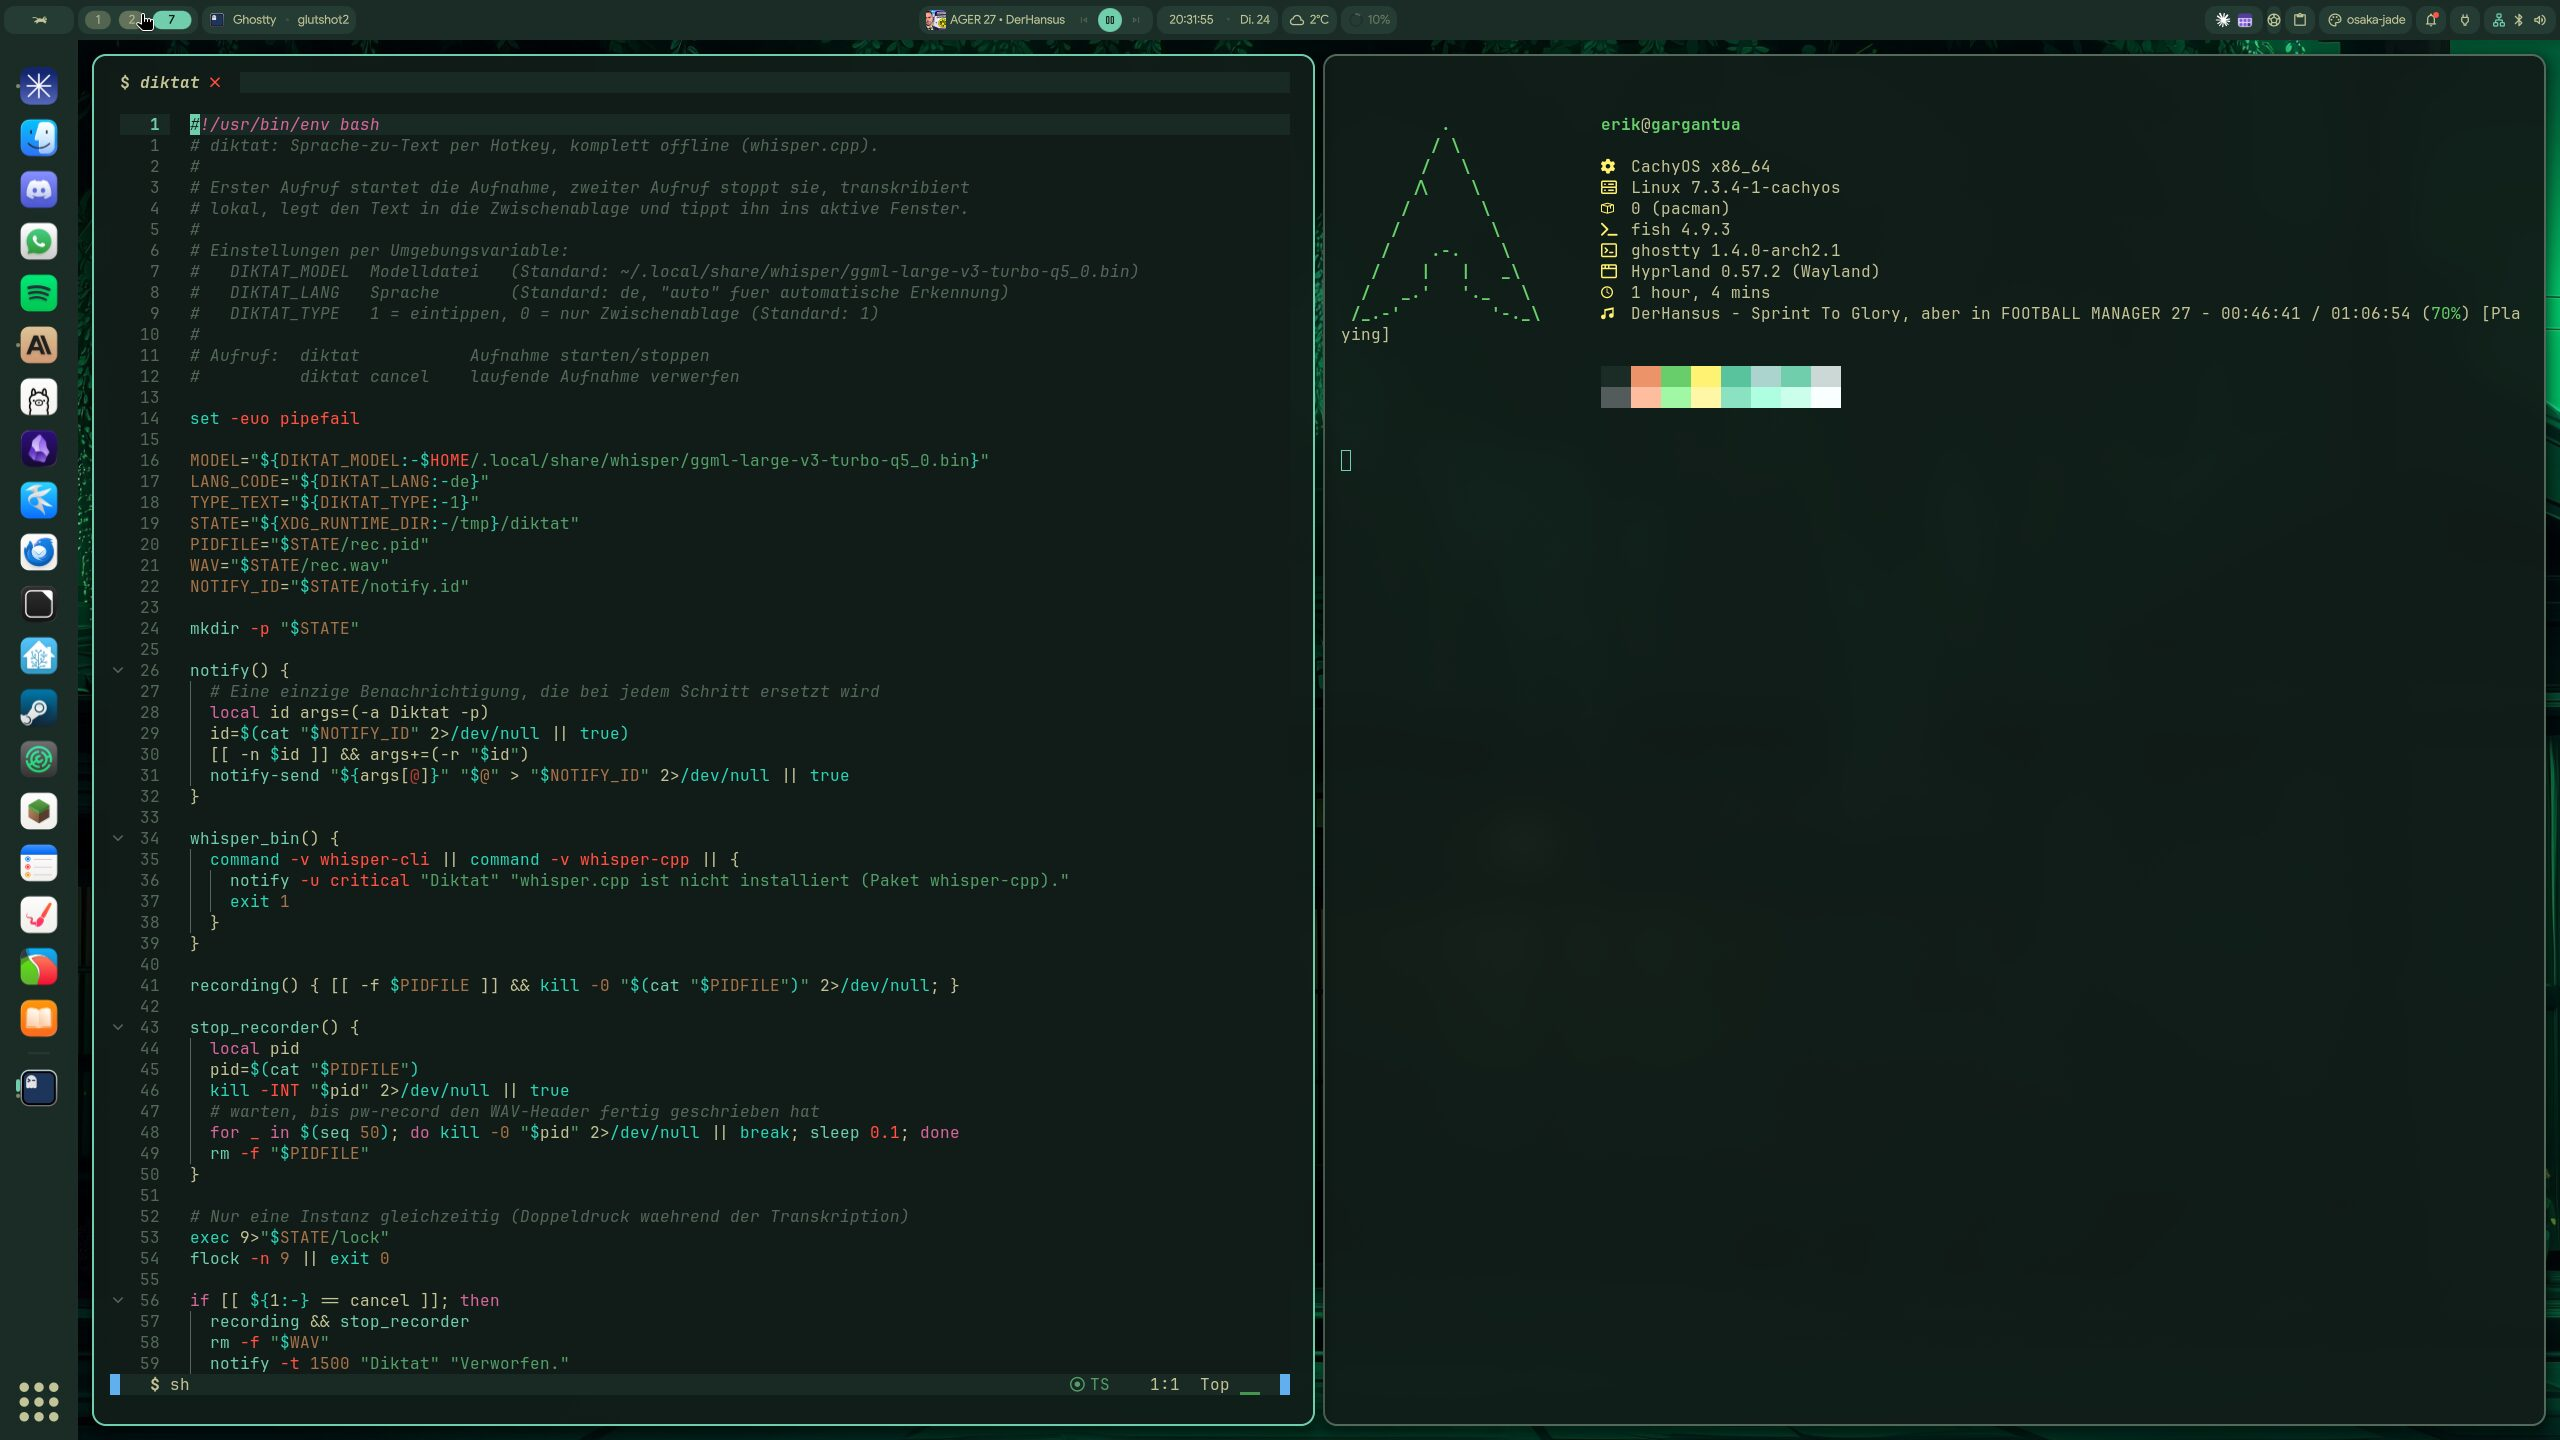
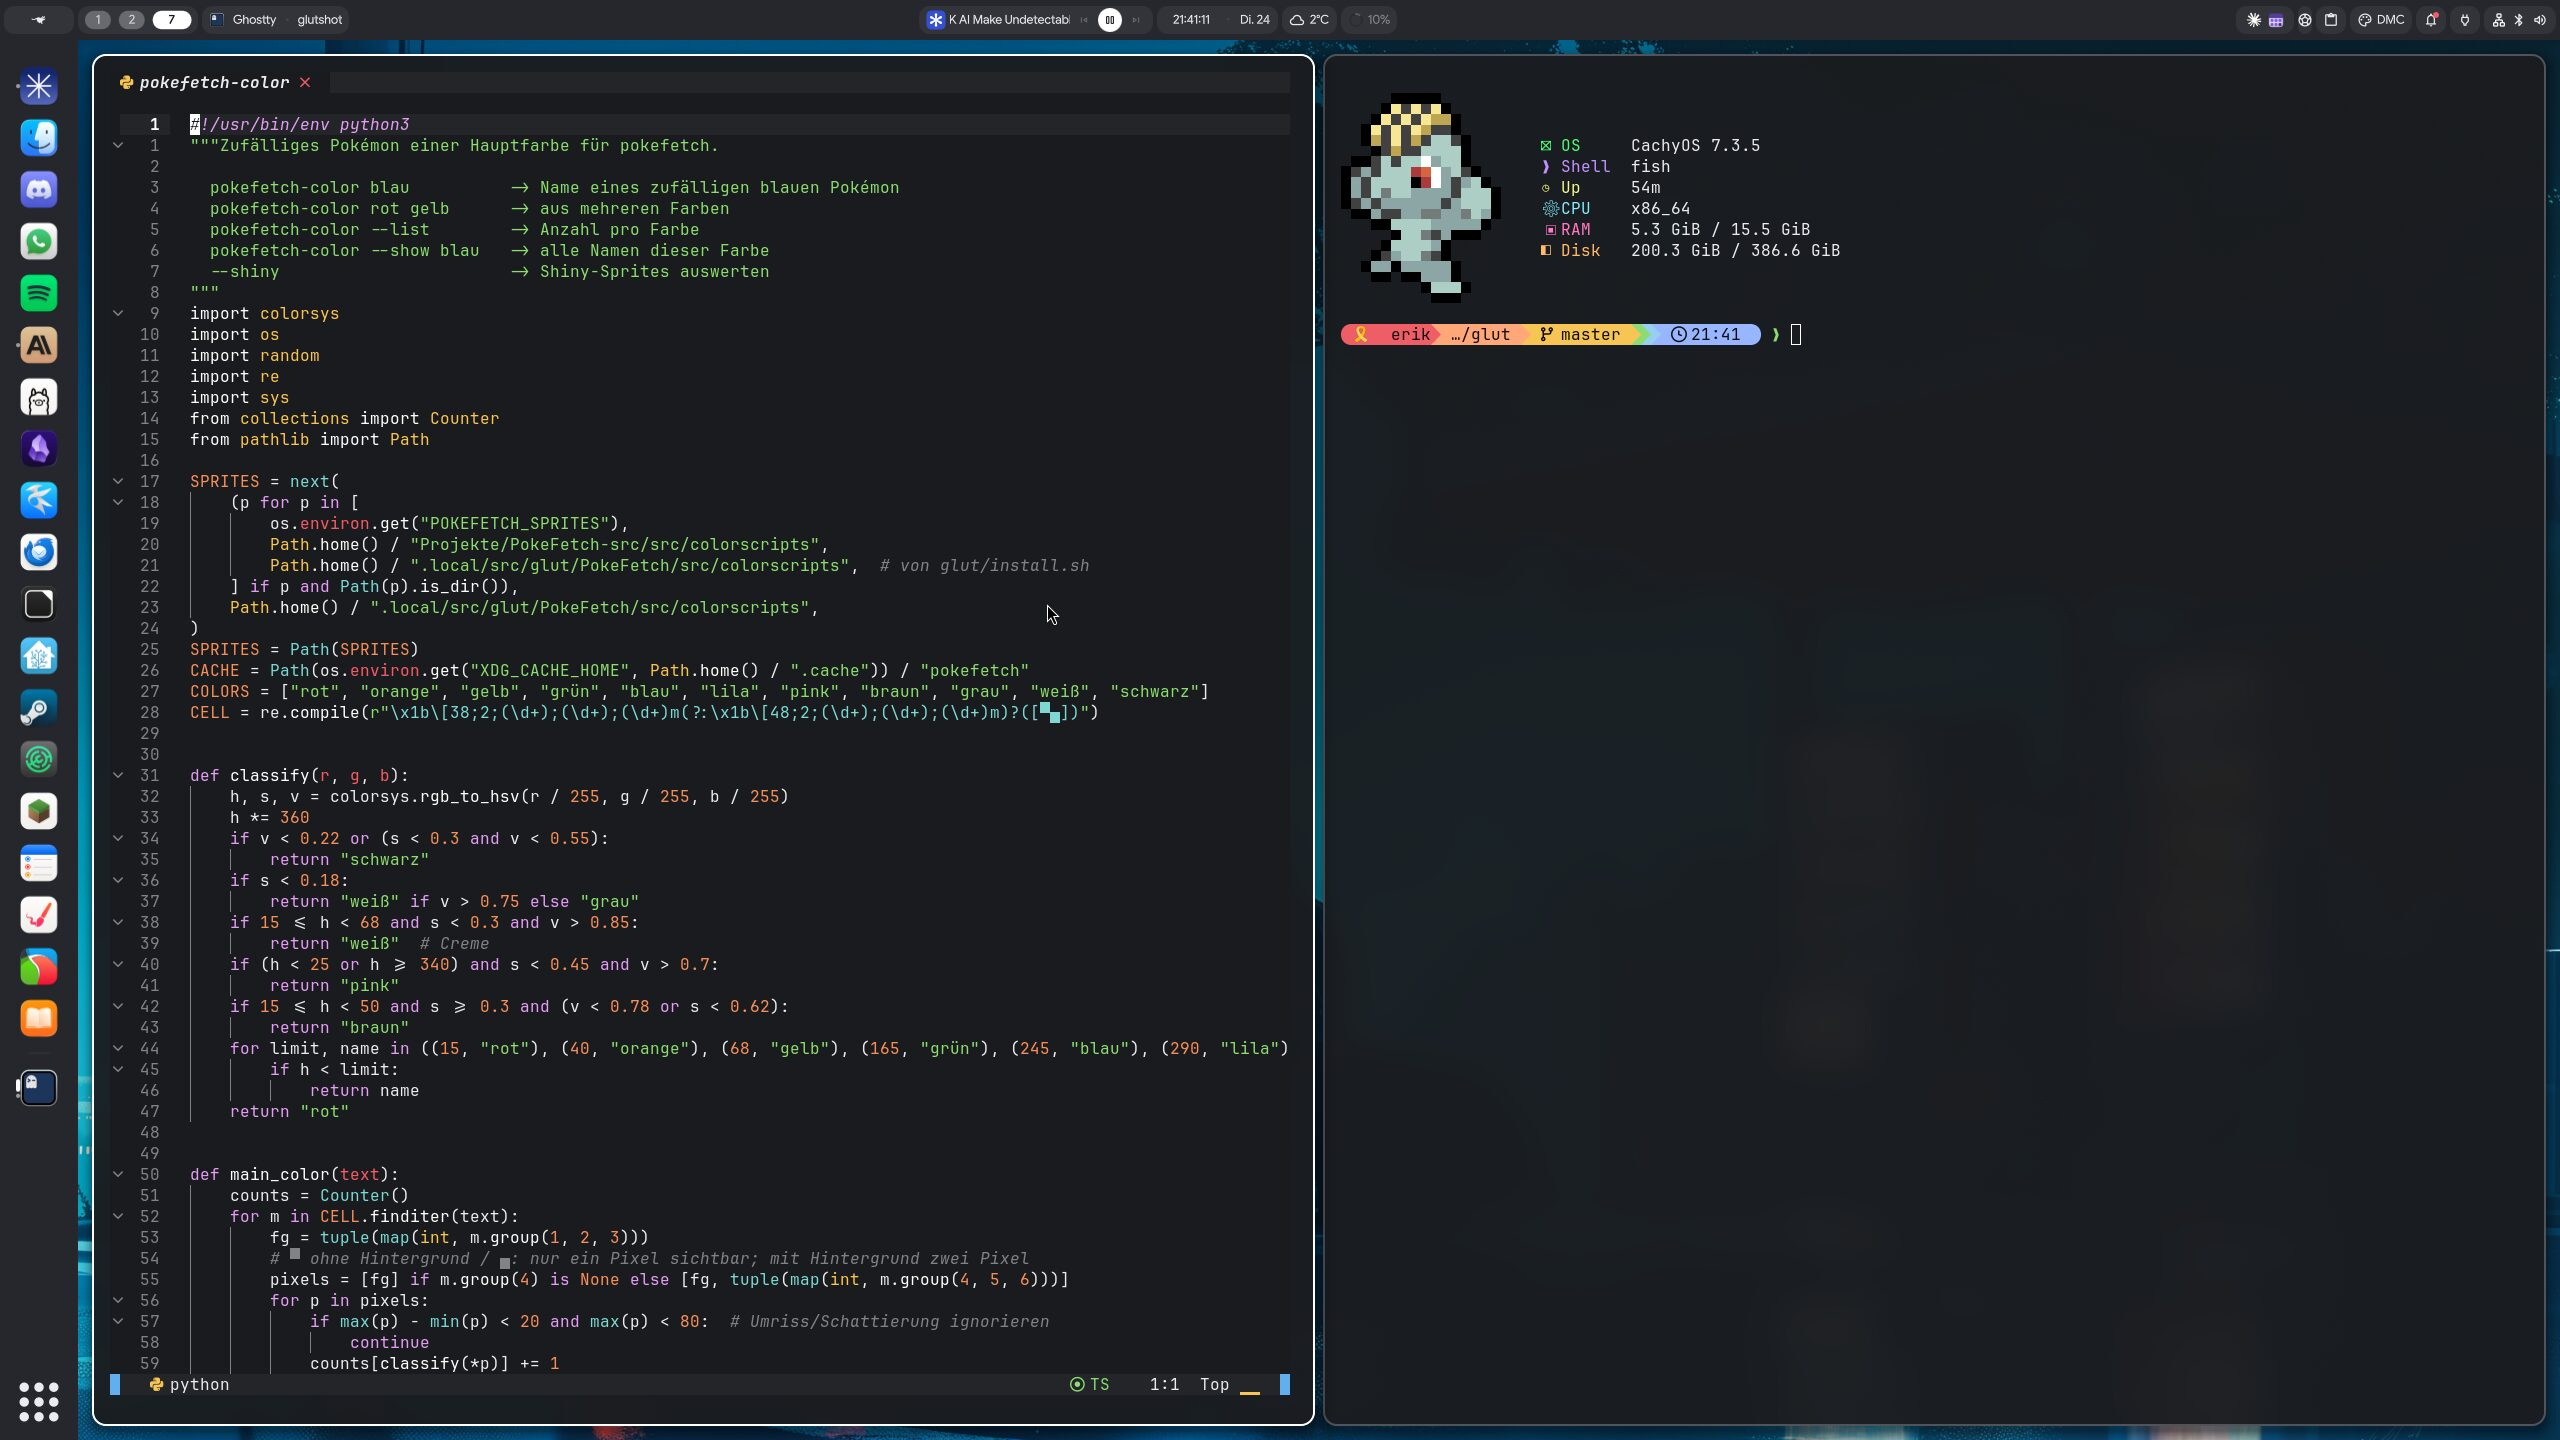
README: Feature-Galerie mit beschrifteten Screenshots
Theme-Galerie, Themes im Launcher, Wallpaper-Karussell, pokefetch,
Diktat, Dashboard, Kontrollzentrum (Profilbild ersetzt), Tastenkuerzel-
Uebersicht und Login-Screen. Terminal-Bild zeigt jetzt pokefetch.

diff --git a/README.md b/README.md
@@ -17,7 +17,7 @@
 <table>
   <tr>
     <td><img width="100%" alt="glut: feuerhirsch theme" src=".github/assets/feuerhirsch.jpg" /></td>
-    <td><img width="100%" alt="glut: terminal with neovim and fastfetch" src=".github/assets/terminal.jpg" /></td>
+    <td><img width="100%" alt="glut: terminal with neovim and a theme-matched pokefetch" src=".github/assets/terminal.jpg" /></td>
   </tr>
   <tr>
     <td><img width="100%" alt="glut: dmc theme" src=".github/assets/dmc.jpg" /></td>
@@ -38,6 +38,49 @@
 - **Hardware-agnostic.** GPU drivers and microcode are not copied from my machine. CachyOS' `chwd` picks the right ones for yours.
 - **Wallpaper is the theme.** Pick a wallpaper and the whole desktop follows it: shell, window borders, terminal, prompt, editor, even the Pokémon that greets you in every new terminal.
 - **Offline where it counts.** Speech-to-text runs locally on the GPU, nothing leaves the machine.
+
+## Features
+
+<table>
+  <tr>
+    <td width="50%"><img width="100%" alt="Theme gallery" src=".github/assets/feat-gallery.jpg" /></td>
+    <td width="50%"><img width="100%" alt="Themes in the launcher" src=".github/assets/feat-launcher-themes.jpg" /></td>
+  </tr>
+  <tr>
+    <td><b>Theme gallery.</b> All 136 themes as live previews with their palettes. Click to apply, <i>Zufall</i> for a random one, <i>Online</i> to import more from aether, iTerm2 or Omarchy.</td>
+    <td><b>Themes in the launcher.</b> <code>SUPER + Space</code>, type <code>~</code>, pick a wallpaper. Also on <code>SUPER + ALT + T</code>, or <code>SUPER + ALT + N</code> for the next one.</td>
+  </tr>
+  <tr>
+    <td><img width="100%" alt="Wallpaper carousel" src=".github/assets/feat-carousel.jpg" /></td>
+    <td><img width="100%" alt="Terminal with pokefetch" src=".github/assets/terminal.jpg" /></td>
+  </tr>
+  <tr>
+    <td><b>Wallpaper carousel.</b> <code>SUPER + ALT + W</code> flips through every wallpaper full screen.</td>
+    <td><b>A Pokémon that matches.</b> Every new shell greets you with pokefetch. The Pokémon is picked from the 40 whose sprite colors are closest to the current theme.</td>
+  </tr>
+  <tr>
+    <td><img width="100%" alt="Dictation" src=".github/assets/feat-diktat.jpg" /></td>
+    <td><img width="100%" alt="Dashboard" src=".github/assets/feat-dash.jpg" /></td>
+  </tr>
+  <tr>
+    <td><b>Dictation, offline.</b> <code>SUPER + ALT + D</code>, speak, press again. Whisper transcribes on the GPU and types the text into the focused window.</td>
+    <td><b>Dashboard.</b> Clock, calendar, weather, media controls and notifications in one panel, on <code>SUPER + Y</code>.</td>
+  </tr>
+  <tr>
+    <td><img width="100%" alt="Control center" src=".github/assets/feat-control-center.jpg" /></td>
+    <td><img width="100%" alt="Keybind cheat sheet" src=".github/assets/feat-keybinds.jpg" /></td>
+  </tr>
+  <tr>
+    <td><b>Control center.</b> Brightness, volume, network, Bluetooth, audio devices, night mode, power profile, disk usage.</td>
+    <td><b>Every keybind, searchable.</b> <code>SUPER + SHIFT + /</code> lists all binds by category. Click one to run it.</td>
+  </tr>
+  <tr>
+    <td colspan="2"><img width="100%" alt="Login screen" src=".github/assets/feat-login.jpg" /></td>
+  </tr>
+  <tr>
+    <td colspan="2"><b>Login screen.</b> SDDM with an animated Gargantua black hole (<a href="https://github.com/FL4REE/sddm-gargantua">sddm-gargantua</a>). The accretion disk moves.</td>
+  </tr>
+</table>
 
 ## Install
 
